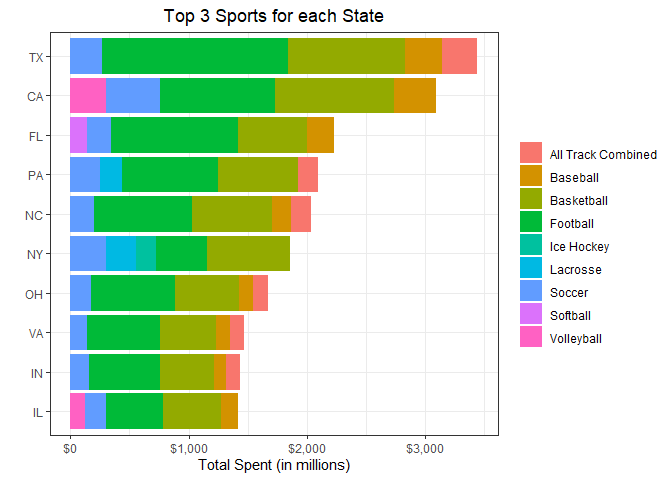
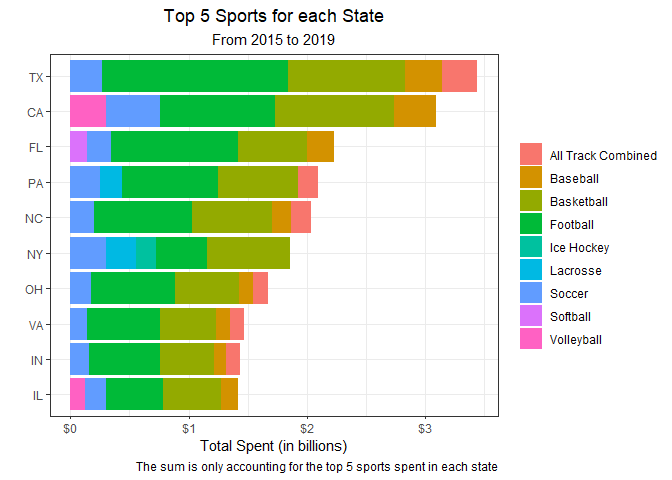
renamed column 'sports' to sport finished previous plot started sex differences and plotted

diff --git a/Sports.md b/Sports.md
@@ -18,7 +18,8 @@ sports <- read_csv('https://raw.githubusercontent.com/rfordatascience/tidytuesda
 
 ``` r
 sports <- sports %>% 
-  rename(state = state_cd) %>% 
+  rename(state = state_cd,
+         sport = sports) %>% 
   rename_with( ~ gsub("_menwomen","",.x))
 ```
 
@@ -80,6 +81,8 @@ sports %>%
     ## 10              12     34
     ## # ... with 42 more rows
 
+## Total Expenditure
+
 ``` r
 sports %>% 
   filter(!is.na(total_exp)) %>% 
@@ -96,11 +99,11 @@ sports %>%
 
 ``` r
 (names <- sports %>%
-  filter(!is.na(total_exp) & !is.na(state)) %>%
-  select(sports, state, total_exp) %>%
-  mutate(sports = str_replace(sports, ", Indoor|, Outdoor|, X-Country", "")) %>% 
+  filter(!is.na(state)) %>%
+  select(state, sport, total_exp) %>%
+  mutate(sport = str_replace(sport, ", Indoor|, Outdoor|, X-Country", "")) %>% 
   group_by(state) %>% 
-  summarize(n = sum(total_exp)) %>% 
+  summarize(n = sum(total_exp, na.rm = TRUE)) %>% 
   arrange(-n) %>%
   pull(state))
 ```
@@ -113,14 +116,18 @@ sports %>%
 ``` r
 sports %>%
   filter(!is.na(total_exp) & state %in% names[1:10]) %>%
-  select(sports, state, total_exp) %>%
-  mutate(sports = str_replace(sports, ", Indoor|, Outdoor|, X-Country", "")) %>% 
-  group_by(state, sports) %>% 
-  summarize(n = sum(total_exp)/1e6) %>%
+  select(sport, state, total_exp) %>%
+  mutate(sport = str_replace(sport, ", Indoor|, Outdoor|, X-Country", "")) %>% 
+  group_by(state, sport) %>% 
+  summarize(n = sum(total_exp)/1e9) %>%
   top_n(5, n) %>% 
-  ggplot(aes(n, fct_reorder(state, n, .fun = sum), fill = sports)) +
-  geom_col() + labs(y = "", x = "Total Spent (in millions)", fill = "", title = "Top 3 Sports for each State") +
-  theme(plot.title = element_text(hjust = 0.5)) + scale_x_continuous(labels = scales::dollar)
+  ggplot(aes(n, fct_reorder(state, n, .fun = sum), fill = sport)) +
+  geom_col() + 
+  labs(y = "", x = "Total Spent (in billions)", fill = "", title = "Top 5 Sports for each State",
+                    subtitle = "From 2015 to 2019", 
+       caption = "The sum is only accounting for the top 5 sports spent in each state") +
+  theme(plot.title = element_text(hjust = 0.5), plot.subtitle = element_text(hjust = 0.5)) + 
+  scale_x_continuous(labels = scales::dollar)
 ```
 
     ## `summarise()` has grouped output by 'state'. You can override using the
@@ -131,13 +138,13 @@ sports %>%
 ``` r
 sports %>% 
   filter(state == "TX" & !is.na(total_exp)) %>% 
-  group_by(sports) %>% 
+  group_by(sport) %>% 
   summarize(n = sum(total_exp)) %>%
   arrange(-n)
 ```
 
     ## # A tibble: 28 x 2
-    ##    sports                       n
+    ##    sport                        n
     ##    <chr>                    <dbl>
     ##  1 Football            1573261890
     ##  2 Basketball           990202120
@@ -150,3 +157,37 @@ sports %>%
     ##  9 Tennis               153503816
     ## 10 Swimming and Diving   85114855
     ## # ... with 18 more rows
+
+## Sex Differences
+
+``` r
+sports %>% 
+  select(sport, exp_men, exp_women, total_exp) %>%
+  mutate(exp_men = ifelse(is.na(exp_men), 0, exp_men),
+         exp_women = ifelse(is.na(exp_women), 0, exp_women)) %>% 
+  summarize(sum = exp_men + exp_women,
+            total_exp) %>% 
+  summarize(correct = mean(sum == total_exp, na.rm = TRUE),
+            missing = mean(is.na(sum) | is.na(total_exp)))
+```
+
+    ## # A tibble: 1 x 2
+    ##   correct missing
+    ##     <dbl>   <dbl>
+    ## 1       1   0.342
+
+``` r
+sports %>% 
+  select(state, exp_men, exp_women) %>% 
+  filter(!is.na(exp_men) & !is.na(exp_women)) %>% 
+  group_by(state) %>% 
+  summarize(n = sum(exp_men - exp_women)/1e6) %>%
+  filter(!is.na(state)) %>% 
+  ggplot(aes(fct_reorder(state,n),n)) + geom_col() +
+  labs(y = "", x = "", title = "Amount Spent More on Men by State",
+       subtitle = "In millions") + 
+  scale_y_continuous(labels = scales::dollar) +
+  theme(axis.text.x = element_text(angle = 90))
+```
+
+![](Sports_files/figure-gfm/unnamed-chunk-8-1.png)<!-- -->
